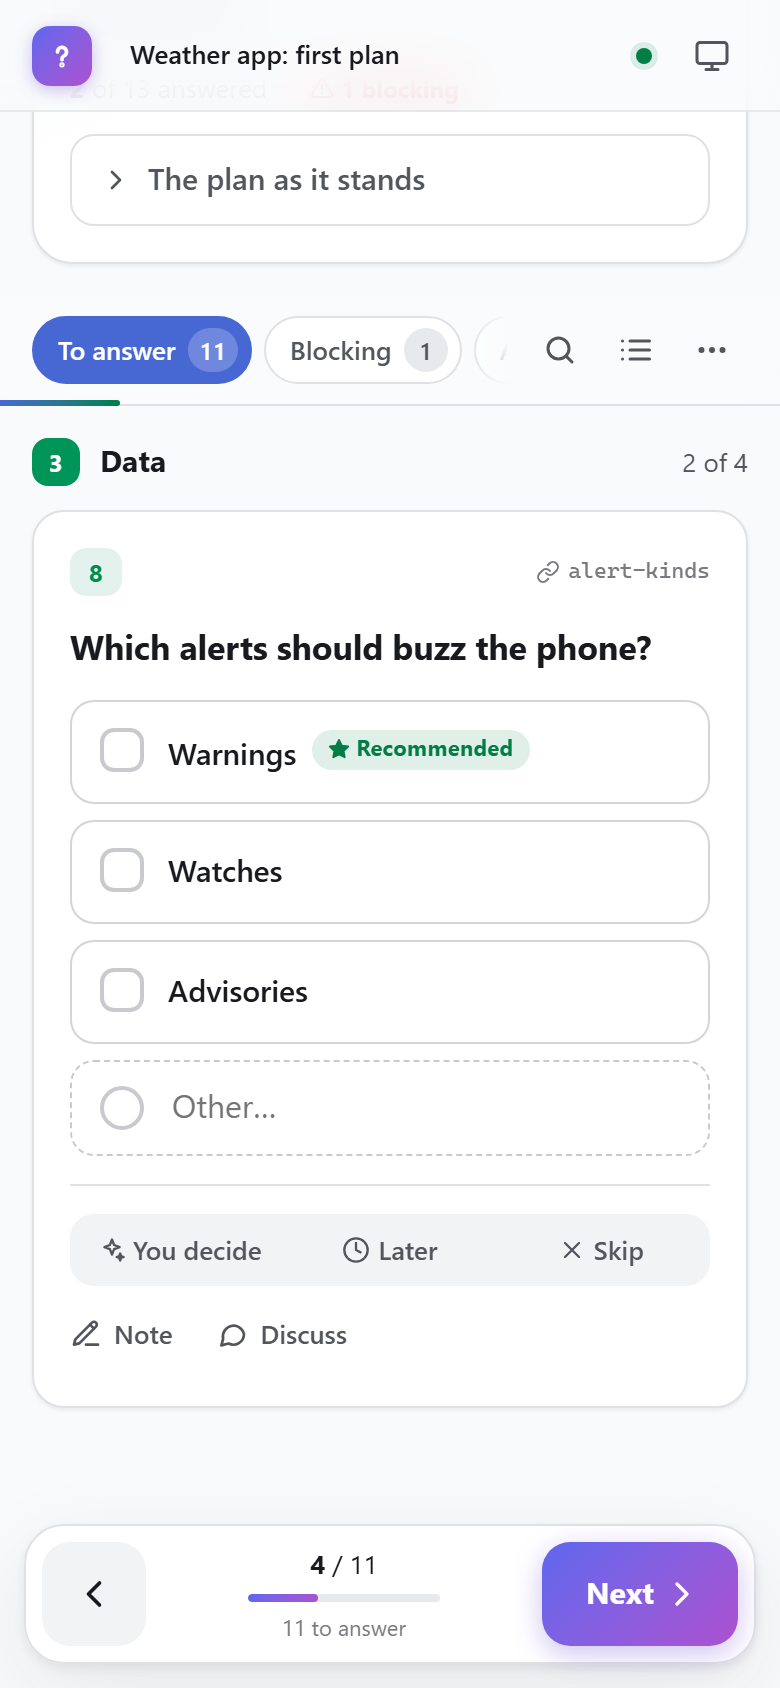
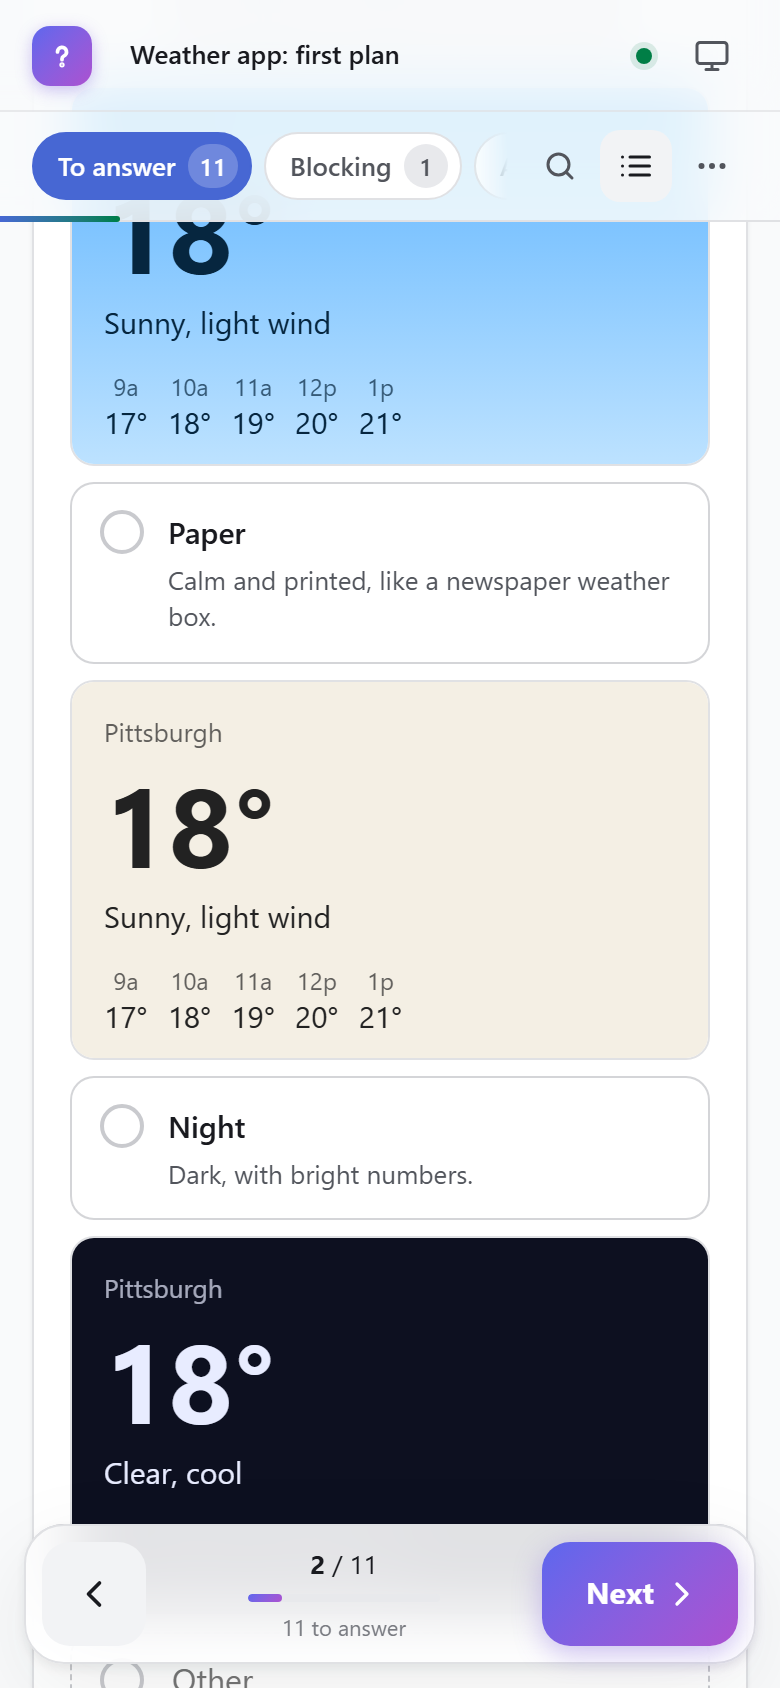
0.2.0: --base serves under any URL path; unknown options are refused; agents are pointed at --help

diff --git a/src/cli.ts b/src/cli.ts
@@ -21,6 +21,7 @@ import {
   projectsPath,
   register,
   runningHub,
+  normaliseBase,
   userConfig,
   userConfigPath,
   updateUserConfig,
@@ -36,6 +37,8 @@ const HELP = `questionme ${version}: questions from an agent, answered on your p
 Serve the page:
   questionme [options]                 one server for every project (the hub); adds this folder
   questionme --solo [folder]           just this folder, on its own server
+          --base <path>    serve under a URL path, e.g. questions or team/questions (behind a proxy;
+                           in Git Bash leave off the leading /, or it becomes a Windows path)
       -p, --port <n>       port to try first (default 4195)
       -H, --host <addr>    address to listen on (default 0.0.0.0: your phone can reach it, with a token)
           --local          only this computer (127.0.0.1, no token)
@@ -85,7 +88,8 @@ interface Args {
   flags: Map<string, string | true>;
 }
 
-const VALUED = new Set(['-p', '--port', '-H', '--host', '--token', '--allow-host', '-C', '--folder', '--timeout', '--settle', '--count', '--ids', '--section', '--limit', '--offset', '--note', '--forget', '--questions']);
+const VALUED = new Set(['--base', '-p', '--port', '-H', '--host', '--token', '--allow-host', '-C', '--folder', '--timeout', '--settle', '--count', '--ids', '--section', '--limit', '--offset', '--note', '--forget', '--questions']);
+const BOOLEAN = new Set(['-h', '--help', '-v', '--version', '--solo', '--background', '--local', '--no-token', '-o', '--open', '--read-only', '--json', '--full', '--peek', '--all', '--new', '--unacked', '--changed', '--blocking', '--any', '--quiet', '--hook', '--no-mcp', '--no-claude-md']);
 const COMMANDS = new Set(['notify', 'serve', 'init', 'list', 'show', 'answers', 'wait', 'ack', 'reply', 'validate', 'schema', 'url', 'stop', 'projects', 'hook', 'mcp', 'help']);
 
 function parse(argv: string[]): Args {
@@ -106,7 +110,8 @@ function parse(argv: string[]): Args {
         if (v === undefined) fail(`${name} needs a value`);
         const prev = flags.get(name);
         flags.set(name, typeof prev === 'string' && (name === '--allow-host' || name === '--ids') ? `${prev},${v}` : v);
-      } else flags.set(name, true);
+      } else if (BOOLEAN.has(name)) flags.set(name, true);
+      else fail(`unknown option ${name} (questionme --help lists every command and option)`);
       continue;
     }
     if (!cmd && !pos.length && COMMANDS.has(a)) cmd = a;
@@ -200,7 +205,7 @@ async function run(): Promise<void> {
       const key = keyed(projects()).find((k) => same(k.root, p.root))?.key;
       const set = args.pos[0];
       const hash = key && p.exists ? `#/p/${encodeURIComponent(key)}${set ? `/s/${encodeURIComponent(set)}` : ''}` : '';
-      for (const l of links(hub.port, hub.host, hub.token, hash)) console.log(l);
+      for (const l of links(hub.port, hub.host, hub.token, hash, hub.base)) console.log(l);
       return;
     }
     case 'stop': {
@@ -243,6 +248,7 @@ async function serve(): Promise<void> {
   const host = value('-H', '--host') ?? process.env['QUESTIONME_HOST'] ?? (local ? '127.0.0.1' : (cfg.host ?? '0.0.0.0'));
   const token = flag('--no-token') || (local && !value('--token')) ? '' : (value('--token') ?? process.env['QUESTIONME_TOKEN'] ?? (cfg.token === false ? '' : (cfg.token ?? hubToken())));
   const allowHosts = [...(cfg.allowHosts ?? []), ...list(value('--allow-host'))];
+  const base = normaliseBase(value('--base') ?? process.env['QUESTIONME_BASE'] ?? cfg.base ?? '/', value('--base') ? 'command line' : process.env['QUESTIONME_BASE'] ? 'QUESTIONME_BASE' : 'config.json');
   const root = path.resolve(args.pos[0] ?? value('-C', '--folder') ?? process.cwd());
 
   if (!solo) {
@@ -252,7 +258,8 @@ async function serve(): Promise<void> {
       if (background) return;
       const key = keyed(projects()).find((k) => same(k.root, root))?.key;
       console.log(`questionme is already running (pid ${running.pid}):`);
-      for (const l of links(running.port, running.host, running.token, key ? `#/p/${encodeURIComponent(key)}` : '')) console.log('  ' + l);
+      for (const l of links(running.port, running.host, running.token, key ? `#/p/${encodeURIComponent(key)}` : '', running.base)) console.log('  ' + l);
+      if ((running.base ?? '/') !== base) console.log(`  (it serves under ${running.base ?? '/'}, not ${base}: questionme stop, then start it again to change that)`);
       console.log('  (questionme stop to stop it)');
       return;
     }
@@ -266,7 +273,7 @@ async function serve(): Promise<void> {
     const p = served().find((x) => x.key === key);
     return p ? new Project(p.root) : undefined;
   };
-  const notifier = new Notifier(projectOf, () => listening, token, (line) => console.log(`[${time()}] ${line}`));
+  const notifier = new Notifier(projectOf, () => listening, token, base, (line) => console.log(`[${time()}] ${line}`));
   for (const p of served()) for (const id of new Project(p.root).ids()) notifier.baseline(p.key, id);
   const running = await start({
     mode: solo ? 'solo' : 'hub',
@@ -274,6 +281,7 @@ async function serve(): Promise<void> {
     ...(solo ? {} : { watchList: projectsPath() }),
     port,
     host,
+    base,
     token,
     allowHosts,
     readOnly: flag('--read-only'),
@@ -288,12 +296,12 @@ async function serve(): Promise<void> {
     onProject: (key, sets) => sets.forEach((set) => notifier.observe(key, set)),
   });
   listening = running.port;
-  if (!solo) writeHubState({ pid: process.pid, port: running.port, host, token, version, started: new Date().toISOString() });
+  if (!solo) writeHubState({ pid: process.pid, port: running.port, host, token, base, version, started: new Date().toISOString() });
 
   const key = solo ? keyFor(root) : keyed(projects()).find((k) => same(k.root, root))?.key;
   const hash = key && new Project(root).exists ? `#/p/${encodeURIComponent(key)}` : '';
   console.log(`questionme ${version} — ${solo ? root : `${projects().length} project${projects().length === 1 ? '' : 's'} (${tildeOf(projectsPath())})`}`);
-  for (const l of links(running.port, host, token, hash)) console.log('  ' + l);
+  for (const l of links(running.port, host, token, hash, base)) console.log('  ' + l);
   if (host === '127.0.0.1') console.log('  (only this computer: drop --local to answer from your phone)');
   if (!token && host !== '127.0.0.1') console.log('  (no token: anyone on your network can open it)');
   if (!background) {
@@ -306,7 +314,8 @@ async function serve(): Promise<void> {
       ? `  notifications: ${[n.ntfy ? 'ntfy' : '', n.webhook ? 'webhook' : ''].filter(Boolean).join(' + ')} (questionme notify test)`
       : '  notifications: off (questionme notify ntfy puts them on your phone)',
   );
-  if (flag('-o', '--open')) openBrowser(links(running.port, host, token, hash)[0] ?? '');
+  console.log('  every command and option: npx questionme --help');
+  if (flag('-o', '--open')) openBrowser(links(running.port, host, token, hash, base)[0] ?? '');
 
   const stop = () => {
     if (!solo) clearHubState(process.pid);
@@ -411,7 +420,7 @@ async function notify(): Promise<void> {
     console.log(`Notifications (${tildeOf(userConfigPath())}):`);
     console.log(`  ntfy:    ${n.ntfy ?? '(off)'}`);
     console.log(`  webhook: ${n.webhook ?? '(off)'}`);
-    console.log(`  links:   ${linkBase(n, readHub()?.port ?? 4195, '')}  (questionme notify link <url> to change)`);
+    console.log(`  links:   ${linkBase(n, readHub()?.port ?? 4195, '', readHub()?.base)}  (questionme notify link <url> to change)`);
     console.log(`  batched: sent once agents have been quiet for ${n.quietSeconds ?? 20} s`);
     if (!notifyEnabled(n)) console.log('\nTurn them on: questionme notify ntfy   (then subscribe in the ntfy app)');
   };
@@ -421,7 +430,7 @@ async function notify(): Promise<void> {
     await send(n, {
       title: 'questionme: notifications work',
       message: "You'll get one when an agent has new questions for you.",
-      url: linkBase(n, readHub()?.port ?? 4195, ''),
+      url: linkBase(n, readHub()?.port ?? 4195, '', readHub()?.base),
       project: '',
       set: '',
       newQuestions: 0,
@@ -468,7 +477,7 @@ async function notify(): Promise<void> {
 
 function readHub() {
   try {
-    return JSON.parse(fs.readFileSync(path.join(configDir(), 'hub.json'), 'utf8')) as { port: number };
+    return JSON.parse(fs.readFileSync(path.join(configDir(), 'hub.json'), 'utf8')) as { port: number; base?: string };
   } catch {
     return undefined;
   }
@@ -503,6 +512,8 @@ them in a question set with the questionme MCP tools (\`add_questions\`; without
   background: it exits, with the new answers, once they're answered.
 - Read only what's new: \`get_answers\` (filter "new") or \`npx questionme answers <set> --new\`. After applying
   answers, \`ack_answers\` with a short note. Put the owner's notes into docs word for word.
+- \`npx questionme --help\` lists every command and option (serving under a URL path with --base, one folder with
+  --solo, notifications, waiting, validating). Check it rather than guessing at flags.
 ${MARK_END}`;
 
 /** How Claude Code should start questionme: through npx once it's published, else this copy. */

diff --git a/src/registry.ts b/src/registry.ts
@@ -92,6 +92,8 @@ export interface UserConfig {
   /** a fixed token, or false for none (default: one made once and kept in ~/.config/questionme/token) */
   token?: string | false;
   allowHosts?: string[];
+  /** a URL path to serve under, e.g. "team/questions" */
+  base?: string;
   /** the name shown on answers and replies from the page */
   author?: string;
   /** push notifications (questionme notify) */
@@ -145,6 +147,8 @@ export interface HubState {
   token: string;
   version: string;
   started: string;
+  /** the URL path it serves under ("/" unless --base) */
+  base?: string;
 }
 
 const hubFile = () => path.join(configDir(), 'hub.json');
@@ -169,9 +173,9 @@ export function readHubState(): HubState | undefined {
 }
 
 /** Is a questionme listening there? Resolves with its version, or undefined. */
-export function ping(port: number, timeout = 1500): Promise<string | undefined> {
+export function ping(port: number, timeout = 1500, base = '/'): Promise<string | undefined> {
   return new Promise((resolve) => {
-    const req = http.get({ host: '127.0.0.1', port, path: '/api/ping', timeout }, (res) => {
+    const req = http.get({ host: '127.0.0.1', port, path: base + 'api/ping', timeout }, (res) => {
       let body = '';
       res.on('data', (c: Buffer) => (body += c.toString()));
       res.on('end', () => {
@@ -192,7 +196,7 @@ export function ping(port: number, timeout = 1500): Promise<string | undefined> 
 export async function runningHub(): Promise<HubState | undefined> {
   const s = readHubState();
   if (!s) return undefined;
-  return (await ping(s.port)) ? s : undefined;
+  return (await ping(s.port, 1500, s.base ?? '/')) ? s : undefined;
 }
 
 const cliPath = () => path.resolve(path.dirname(fileURLToPath(import.meta.url)), 'cli.js');
@@ -234,11 +238,30 @@ export function lanAddresses(): string[] {
 }
 
 /** Links to a page: this computer first, then every address other devices can use. */
-export function links(port: number, host: string, token: string, hash = ''): string[] {
+export function links(port: number, host: string, token: string, hash = '', base = '/'): string[] {
   const q = token ? `?token=${encodeURIComponent(token)}` : '';
   const everywhere = host === '0.0.0.0' || host === '::';
   const local = everywhere || host === '127.0.0.1' || host === '::1' ? 'localhost' : host;
-  const out = [`http://${local}:${port}/${q}${hash}`];
-  if (everywhere) for (const ip of lanAddresses()) out.push(`http://${ip}:${port}/${q}${hash}`);
+  const out = [`http://${local}:${port}${base}${q}${hash}`];
+  if (everywhere) for (const ip of lanAddresses()) out.push(`http://${ip}:${port}${base}${q}${hash}`);
   return out;
+}
+
+/**
+ * A URL path to serve under, as "/a/b/": "test/path", "/test/path", "/test/path/" and "https://host/test/path" all
+ * work. Git Bash turns an argument like /test/path into C:/Program Files/Git/test/path before we see it: that is
+ * refused with how to avoid it, since it would silently serve everything under the wrong path.
+ */
+export function normaliseBase(raw: string, from = 'command line'): string {
+  let b = raw.trim().replace(/\\/g, '/');
+  if (/^https?:[/][/]/i.test(b)) b = new URL(b).pathname;
+  if (/^[a-z]:[/]/i.test(b))
+    throw new Error(
+      `base looks like a Windows path (${raw}, from ${from}). Git Bash rewrites arguments that start with "/": write it without the leading slash (--base test/path) or set MSYS_NO_PATHCONV=1.`,
+    );
+  b = '/' + b.split('/').filter(Boolean).join('/') + '/';
+  if (b === '//') b = '/';
+  if (!/^[A-Za-z0-9._~!$&'()*+,;=:@%/-]+$/.test(b)) throw new Error(`base can only use URL path characters (got ${raw})`);
+  if (b.split('/').some((p) => p === '..' || p === '.')) throw new Error(`base can't contain . or .. (got ${raw})`);
+  return b;
 }

diff --git a/src/server.ts b/src/server.ts
@@ -23,6 +23,8 @@ export interface Options {
   mode: 'hub' | 'solo';
   port: number;
   host: string;
+  /** a URL path to serve under, as "/a/b/" (default "/") */
+  base?: string;
   token?: string;
   allowHosts?: string[];
   readOnly?: boolean;
@@ -58,6 +60,7 @@ const STATIC: Record<string, string> = {
 
 export async function start(opts: Options): Promise<Running> {
   const token = opts.token ?? '';
+  const base = opts.base ?? '/';
   const maxFile = (opts.maxFileMb ?? 2) * 1048576;
   const pool = new Map<string, { project: Project; root: string; stop?: () => void }>();
   const clients = new Set<http.ServerResponse>();
@@ -188,8 +191,13 @@ export async function start(opts: Options): Promise<Running> {
     const host = (req.headers.host ?? '').replace(/:\d+$/, '').replace(/^\[|\]$/g, '').toLowerCase();
     if (!allowed(host)) return json(res, 403, { error: `Host "${host}" is not allowed. Start with --allow-host ${host} to allow it.` });
     const url = new URL(req.url ?? '/', 'http://x');
-    const p = url.pathname;
-    if (p === '/api/ping') return json(res, 200, { app: 'questionme', version, mode: opts.mode });
+    // served under a path (behind a proxy): everything lives below it
+    if (base !== '/') {
+      if (url.pathname === base.slice(0, -1)) return void res.writeHead(301, { location: base + url.search }).end();
+      if (!url.pathname.startsWith(base)) return json(res, 404, { error: `not found (questionme is under ${base})` });
+    }
+    const p = '/' + url.pathname.slice(base.length);
+    if (p === '/api/ping') return json(res, 200, { app: 'questionme', version, mode: opts.mode, base });
     if (token) {
       const given = url.searchParams.get('token') ?? bearer(req) ?? cookie(req, 'questionme_token') ?? '';
       if (!same(given, token)) {
@@ -198,8 +206,8 @@ export async function start(opts: Options): Promise<Running> {
       }
       if (url.searchParams.has('token')) {
         url.searchParams.delete('token');
-        res.setHeader('set-cookie', `questionme_token=${encodeURIComponent(token)}; Path=/; HttpOnly; SameSite=Lax; Max-Age=31536000`);
-        if (p === '/' || p === '/index.html') return void res.writeHead(302, { location: '/' + (url.search || '') }).end();
+        res.setHeader('set-cookie', `questionme_token=${encodeURIComponent(token)}; Path=${base}; HttpOnly; SameSite=Lax; Max-Age=31536000`);
+        if (p === '/' || p === '/index.html') return void res.writeHead(302, { location: base + (url.search || '') }).end();
       }
     }
     const method = req.method ?? 'GET';

diff --git a/src/mcp.ts b/src/mcp.ts
@@ -14,7 +14,8 @@ Use it instead of asking in chat when you have more than about 4 questions, ques
 1. add_questions to a set (one set per topic or plan). Give each question a stable id, a short question, options with descriptions, mark one recommended, and say why it matters. Mark the ones you can't go on without as blocking. Use content blocks (files, code, diffs, mermaid, images, html mockups) instead of long prose. Use hidden + an option's "shows" (or showIf) for follow-up questions that only matter after a certain answer.
 2. get_link and give the user the links (their phone uses the LAN or Tailscale address).
 3. Keep working on what doesn't depend on the answers. To wait, prefer running \`npx questionme wait <set> --blocking\` (or --all / --any) in the background: it exits, and wakes you, when the condition holds. wait_for_answers blocks for at most a few minutes.
-4. get_answers with filter "new" returns only what changed since you last read, compactly; page with limit/offset for big sets. Apply them, then ack_answers with a short note the user sees. Put the user's notes into docs word for word. Answer their messages with reply.`;
+4. get_answers with filter "new" returns only what changed since you last read, compactly; page with limit/offset for big sets. Apply them, then ack_answers with a short note the user sees. Put the user's notes into docs word for word. Answer their messages with reply.
+5. The questionme CLI does all of this too, plus serving and setup: run \`npx questionme --help\` for every command and option (e.g. --base to serve under a URL path, --solo, notify) instead of guessing.`;
 
 type Json = Record<string, unknown>;
 
@@ -45,7 +46,7 @@ async function linkFor(project: Project, set?: string, start = true): Promise<st
   if (!hub) return 'The questionme server is not running (get_link starts it).';
   const key = keyed(projects()).find((p) => path.resolve(p.root).toLowerCase() === project.root.toLowerCase())?.key ?? '';
   const hash = key ? `#/p/${encodeURIComponent(key)}${set ? `/s/${encodeURIComponent(set)}` : ''}` : '';
-  const all = links(hub.port, hub.host, hub.token, hash);
+  const all = links(hub.port, hub.host, hub.token, hash, hub.base);
   return ['Links (the first is this computer; the others work from a phone on the same network or Tailscale):', ...all.map((l) => '  ' + l)].join('\n');
 }
 

diff --git a/src/notify.ts b/src/notify.ts
@@ -60,6 +60,7 @@ export class Notifier {
     private readonly project: (key: string) => Project | undefined,
     private readonly port: () => number,
     private readonly token: string,
+    private readonly base: string,
     private readonly log: (line: string) => void = () => undefined,
   ) {}
 
@@ -152,17 +153,17 @@ export class Notifier {
   }
 
   link(key: string, set: string): string {
-    return linkBase(notifyConfig(), this.port(), this.token) + `#/p/${encodeURIComponent(key)}/s/${encodeURIComponent(set)}`;
+    return linkBase(notifyConfig(), this.port(), this.token, this.base) + `#/p/${encodeURIComponent(key)}/s/${encodeURIComponent(set)}`;
   }
 }
 
 /** Where links in notifications point: the configured base, else Tailscale (works anywhere), else the LAN. */
-export function linkBase(cfg: NotifyConfig, port: number, token: string): string {
+export function linkBase(cfg: NotifyConfig, port: number, token: string, hubBase = '/'): string {
   let base = cfg.link?.replace(/\/+$/, '');
   if (!base) {
     const ips = lanAddresses();
     const ts = ips.find((ip) => /^100\.(6[4-9]|[7-9]\d|1[01]\d|12[0-7])\./.test(ip));
-    base = `http://${ts ?? ips[0] ?? os.hostname()}:${port}`;
+    base = `http://${ts ?? ips[0] ?? os.hostname()}:${port}${hubBase.replace(/\/$/, '')}`;
   }
   return `${base}/${cfg.includeToken && token ? `?token=${encodeURIComponent(token)}` : ''}`;
 }

diff --git a/README.md b/README.md
@@ -199,6 +199,7 @@ npx questionme --solo [folder] # just this folder, on its own server
 |---|---|---|---|
 | `-p, --port <n>` | `QUESTIONME_PORT` | `4195` | The port to try first; the next free one is used. |
 | `-H, --host <addr>` | `QUESTIONME_HOST` | `0.0.0.0` | Where to listen. The default lets your phone reach it. |
+| `--base <path>` | `QUESTIONME_BASE` | `/` | Serve under a URL path, such as `questions` or `team/questions`, behind a proxy. See [Under a path](#under-a-path). |
 | `--local` | | | Only this computer (`127.0.0.1`), no token. |
 | `--token <t>` | `QUESTIONME_TOKEN` | made once | The token. Open a link with `?token=…` once on each device and it's kept as a cookie. |
 | `--no-token` | | | No token: anyone on your network can open it. |
@@ -206,13 +207,29 @@ npx questionme --solo [folder] # just this folder, on its own server
 | `-o, --open` | | | Open it in your browser. |
 | `--read-only` | | | Look, don't answer. |
 
-Your settings can also go in `~/.config/questionme/config.json` (`port`, `host`, `token` (or `false`), `allowHosts`,
-`notify`).
+`questionme --help` prints every command and option, and a mistyped option is refused rather than ignored. Agents are
+told (in the MCP server's instructions and the `CLAUDE.md` section `init` writes) to check `--help` instead of guessing.
+
+Your settings can also go in `~/.config/questionme/config.json` (`port`, `host`, `base`, `token` (or `false`),
+`allowHosts`, `notify`).
 `QUESTIONME_HOME` moves that folder. It also holds `projects.json` (the hub's list), `hub.json` (where it's running),
 `token`, and `hub.log`.
 
 The links include every address your phone might use: your Wi-Fi or LAN address, and a Tailscale address if you have
 one. Virtual adapters (WSL, Docker, VMs) are left out.
+
+### Under a path
+
+`--base team/questions` (or `QUESTIONME_BASE`, or `"base"` in the config) serves everything under `/team/questions/`:
+the page, its scripts, project files, answers, live updates and the API. Any depth works, and `team/questions`,
+`/team/questions`, `/team/questions/` and a full `https://host/team/questions` mean the same. The token cookie is kept
+to that path, `/team/questions` redirects to `/team/questions/`, and nothing is served outside it. The hub remembers its
+base, so the links it prints, the MCP server's `get_link` and notifications all include it. Point your proxy at
+questionme without stripping the path. To change the base of a running hub, `questionme stop` and start it again.
+
+In Git Bash on Windows, leave off the leading slash: Git Bash rewrites `/team/questions` into
+`C:/Program Files/Git/team/questions` before questionme sees it (questionme refuses that, and says why).
+`MSYS_NO_PATHCONV=1` turns the rewriting off.
 
 ## Notifications on your phone
 
